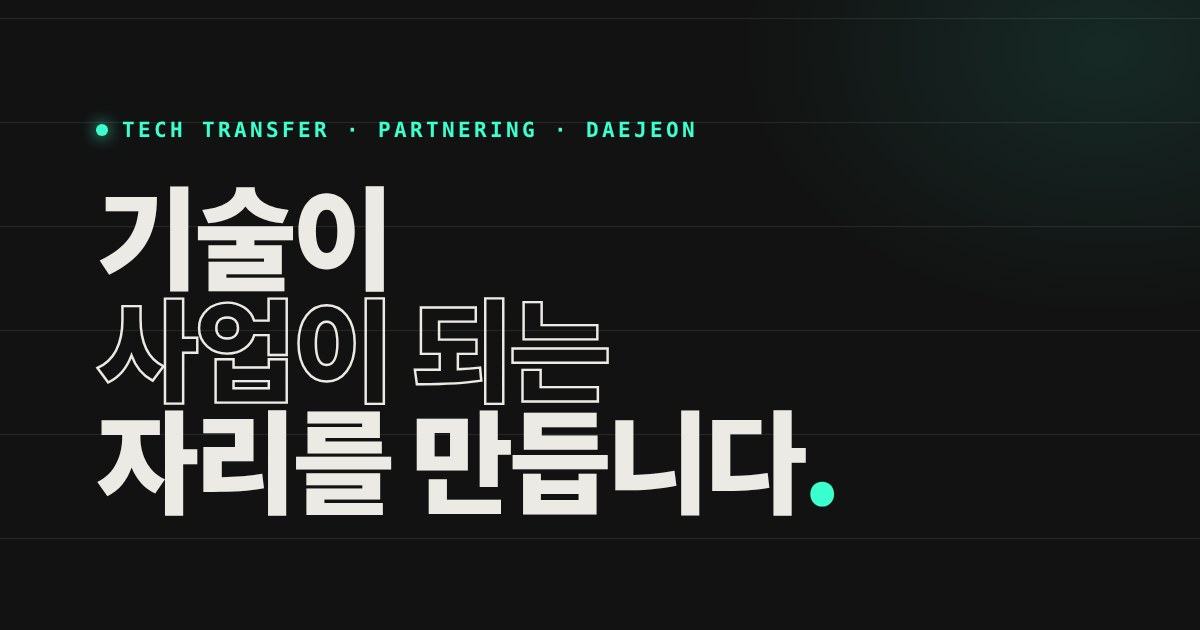
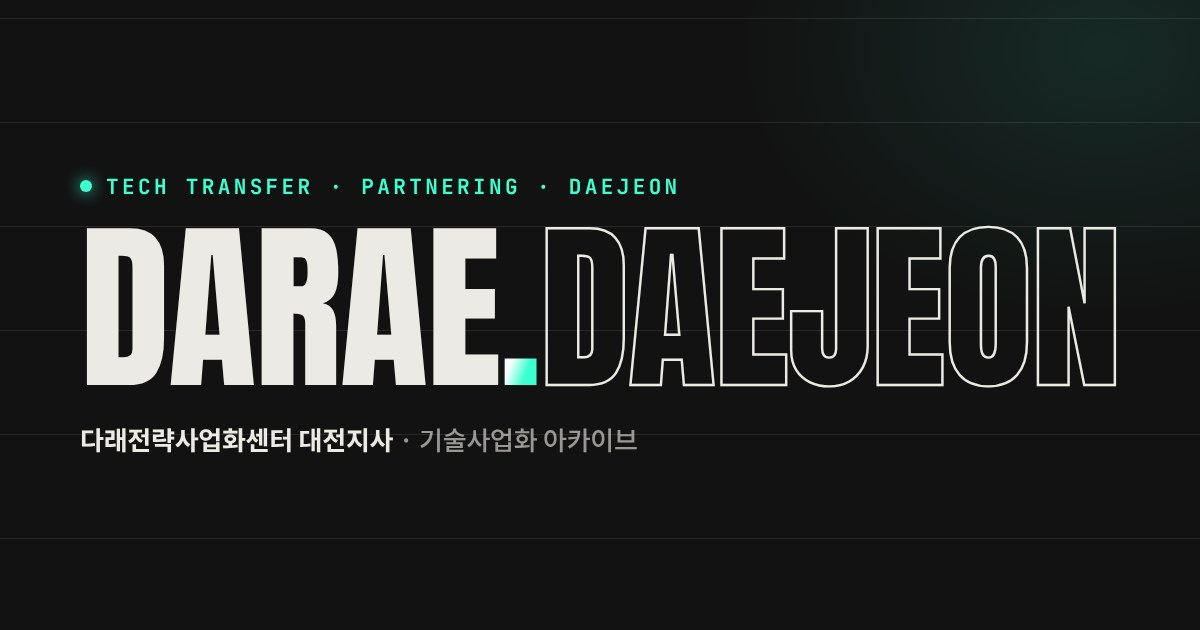
공유 미리보기: 기술사업화 아카이브로 이름 변경, DARAE.DAEJEON 이미지 적용
- 이미지는 실제 Anton 글꼴로 제작 (히어로 문구 버전은 og-hero.jpg로 보관)

Claude-Session: https://claude.ai/code/session_013m9DrTUF1o4nCJum9rHi1x

diff --git a/index.html b/index.html
@@ -3,17 +3,17 @@
 <head>
 <meta charset="utf-8">
 <meta name="viewport" content="width=device-width, initial-scale=1">
-<title>DARAE.DAEJEON | 다래 대전지사 기술사업화 허브</title>
-<meta name="description" content="기술설명회·파트너링 행사부터 온라인 기술소개자료(SMK), 기술이전 뉴스레터, 이슈 리포트까지. 다래전략사업화센터 대전지사의 기술사업화 기록을 한곳에 모았습니다.">
+<title>DARAE.DAEJEON | 다래 대전지사 기술사업화 아카이브</title>
+<meta name="description" content="다래전략사업화센터 대전지사가 해 온 기술사업화 기록. 기술설명회·파트너링 행사, 온라인 기술소개자료(SMK), 기술이전 뉴스레터, 이슈 리포트를 한곳에서 볼 수 있습니다.">
 <meta property="og:type" content="website">
 <meta property="og:site_name" content="DARAE.DAEJEON">
 <meta property="og:url" content="https://darae-daejeon.github.io/">
-<meta property="og:title" content="DARAE.DAEJEON | 다래 대전지사 기술사업화 허브">
-<meta property="og:description" content="기술설명회·파트너링 행사부터 온라인 기술소개자료(SMK), 기술이전 뉴스레터, 이슈 리포트까지. 다래전략사업화센터 대전지사의 기술사업화 기록을 한곳에 모았습니다.">
-<meta property="og:image" content="https://darae-daejeon.github.io/assets/og.jpg?v=1">
+<meta property="og:title" content="DARAE.DAEJEON | 다래 대전지사 기술사업화 아카이브">
+<meta property="og:description" content="다래전략사업화센터 대전지사가 해 온 기술사업화 기록. 기술설명회·파트너링 행사, 온라인 기술소개자료(SMK), 기술이전 뉴스레터, 이슈 리포트를 한곳에서 볼 수 있습니다.">
+<meta property="og:image" content="https://darae-daejeon.github.io/assets/og.jpg?v=2">
 <meta property="og:image:width" content="1200">
 <meta property="og:image:height" content="630">
-<meta property="og:image:alt" content="기술이 사업이 되는 자리를 만듭니다. — DARAE.DAEJEON">
+<meta property="og:image:alt" content="DARAE.DAEJEON — 다래전략사업화센터 대전지사 기술사업화 아카이브">
 <meta property="og:locale" content="ko_KR">
 <meta name="twitter:card" content="summary_large_image">
 <link rel="preconnect" href="https://fonts.googleapis.com">

diff --git a/smk/index.html b/smk/index.html
@@ -10,10 +10,10 @@
 <meta property="og:url" content="https://darae-daejeon.github.io/smk/">
 <meta property="og:title" content="온라인 기술소개자료(SMK) | DARAE.DAEJEON">
 <meta property="og:description" content="다래 대전지사가 행사·뉴스레터를 위해 만든 온라인 기술소개자료(SMK) 모음. 기술명·연구자·분야로 바로 찾을 수 있습니다.">
-<meta property="og:image" content="https://darae-daejeon.github.io/assets/og.jpg?v=1">
+<meta property="og:image" content="https://darae-daejeon.github.io/assets/og.jpg?v=2">
 <meta property="og:image:width" content="1200">
 <meta property="og:image:height" content="630">
-<meta property="og:image:alt" content="기술이 사업이 되는 자리를 만듭니다. — DARAE.DAEJEON">
+<meta property="og:image:alt" content="DARAE.DAEJEON — 다래전략사업화센터 대전지사 기술사업화 아카이브">
 <meta property="og:locale" content="ko_KR">
 <meta name="twitter:card" content="summary_large_image">
 <link rel="preconnect" href="https://fonts.googleapis.com">
